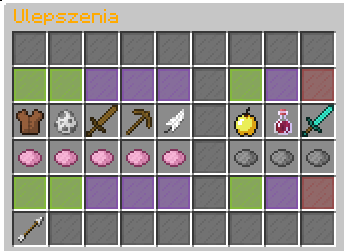
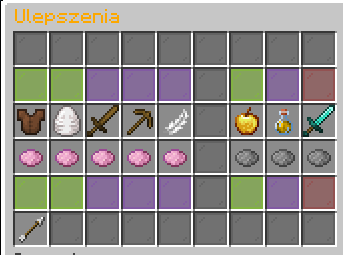
Zrobione HeadWarsy

diff --git a/minigames/headwars.md b/minigames/headwars.md
@@ -1,151 +1,216 @@
 # Head Wars
-Headwars to tryb gry w Minecraft, który polega na intensywnych walkach, w których celem jest zdobycie jak największej liczby głów przeciwników. To emocjonujący wariant rozgrywki, który łączy dynamiczne starcia z koniecznością strategicznego myślenia. W Headwars każda decyzja ma ogromne znaczenie, a gracze muszą być czujni przez cały czas, aby osiągnąć zwycięstwo. Mimo że rozgrywka może trwać długo, każda chwila przynosi nowe wyzwania, sprawiając, że rywalizacja jest niezwykle satysfakcjonująca.
-## Początek rozgrywki
-Na początku rozgrywki posiadasz 4 guziki które pomogą zdobyć żelazo dzięki któremu możesz kupić ulepszenia/generatory oraz itemy.
-![Przycisk startowy Head Wars](/assets/head-wars/Przycisk-HW.png)
+
+Headwars to tryb dostępny od [badge:1.8.9+:yellow], który skupia się na walkach i niszczeniem główek innych graczy.
+
+Głównym celem rozgrywki jest niszczenie głów przeciwników i jednoczesne eliminowanie innych graczy. 
+
+Ten tryb łączy szybkie, dynamiczne walki z potrzebą taktycznego rozwijania swojej główki.  
+
+## Jak zacząć?
+
+Na początku rozgrywki pojawiasz się na swojej główce, a na środku znajdują się 4 guziki, które generują żelazo. 
+
+Ten surowiec pozwala kupować początkowe ulepszenia, generatory i niezbędne przedmioty.
+
+Dzięki nim możesz szybko rozwijać swoją główkę i ekwipunek po to, żeby przygotować się do walki z innymi graczami.
+
+Otrzymujesz także drewnianą motykę, która pełni rolę narzędzia do ulepszania obudowy Twoich główek i generatorów.
+
 ## Generatory
-W trakcie rozgrywki gracz może zakupić trzy rodzaje generatorów: złota, żelaza i diamentów. Generatory szmaragdów nie są dostępne do zakupu, ale emeraldy można zdobyć, udając się na środek mapy. Tam znajdują się cztery generatory, które odradzają emeraldy co 45 sekund, przy czym na jednym generatorze może pojawić się maksymalnie jeden emerald.
 
-#### Uwaga! Generatory mają swój czas działania
+W trakcie rozgrywki możesz zakupić trzy rodzaje generatorów:
 
-| **Generator**                  | **Czas działania** |
-|--------------------------------|-------------------|
-| Generator żelaza (Poziom 1)    | 288 sekund        |
-| Generator żelaza (Poziom 2)    | 432 sekund        |
-| Generator żelaza (Poziom 3)    | 648 sekund        |
-| Generator złota (Poziom 1)     | 288 sekund        |
-| Generator złota (Poziom 1)     | 432 sekund        |
-| Generator złota (Poziom 1)     | 648 sekund        |
-| Generator diamentów (Poziom 1) | 768 sekund        |
-| Generator diamentów (Poziom 2) | 1152 sekund       |
-| Generator diamentów (Poziom 3) | 1080 sekund       |
+1. Złota. 
+2. Żelaza.
+3. Diamentów. 
 
-![Generatory](/assets/head-wars/generatory1.png)
-![Generatory_emeraldow](/assets/head-wars/generatory2.png)
+Są jeszcze generatory emeraldów, ale nie są dostępne do zakupu. Możesz je zdobyć, udając się na środek mapy.
+
+Na mapie znajdziesz cztery generatory, które co 45 sekund wytwarzają emeraldy. 
+
+Na każdym z nich może pojawić się tylko jeden emerald! Więc warto pilnować czasu i zbierać je regularnie przed innymi graczami. 
+
+> [!NOTE]
+> Na całej arence możesz postawić maksymalnie 40 generatorów.
+
+## Czas działania generatorów
+
+Na HeadWars musisz pamiętać, że generatory żelaza, złota i diamentów działają według określonego czasu generowania surowców.
+
+Jeżeli minie czas działania generatora, to zostaje on zniszczony, a wszystkie surowce, które wygenerował, pozostają na ziemi, które możesz zebrać i zakupić nowy!
+
+| Generator                      | Czas działania |
+|--------------------------------|----------------|
+| Generator Żelaza (Poziom 1)    | 288 sekund     |
+| Generator Żelaza (Poziom 2)    | 432 sekund     |
+| Generator Żelaza (Poziom 3)    | 648 sekund     |
+| Generator Złota (Poziom 1)     | 288 sekund     |
+| Generator Złota (Poziom 1)     | 432 sekund     |
+| Generator Złota (Poziom 1)     | 648 sekund     |
+| Generator Diamentów (Poziom 1) | 768 sekund     |
+| Generator Diamentów (Poziom 2) | 1152 sekund    |
+| Generator Diamentów (Poziom 3) | 1080 sekund    |
+
 ### Ulepszator
-Ulepszator jest to drewniana motyka, która pojawia się na 9 slocie, dzięki której możesz ulepszyć posiadane generatory (kliknąć ppm w stronę generatora) za niewielką opłatą, która jest zależna od rodzaju generatora i jego poziomu.
 
-| **Poziom Generatora**    | **Koszt Ulepszenia żelaznego** | **Koszt Ulepszenia Złotego** | **Koszt Ulepszenia Diamnetowego** |
-|--------------------------|--------------------------------|------------------------------|-----------------------------------|
-| 1 > 2                    | 16x żelaza                     | 12x złota                    | 12x Diamentów                     |
-| 2 > 3                    | 8x złota                       | 4x Diamentów                 | 3x Emeraldów                      |
+Ulepszator jest to drewniana motyka, która pojawia się na 9 slocie, dzięki której możesz ulepszyć posiadane generatory.
 
-#### Uwaga! Ulepszator ma również możliwość ulepszania blocków.
+Kliknąć prawym przyciskiem myszy (ppm) w stronę generatora lub bloku wełny za niewielką opłatą, która jest zależna od rodzaju generatora oraz bloku.
 
-| **Blok**  | **Cena**      |
-|-----------|---------------|
-| Glina     | 8x żelazo     |
-| End stone | 12x złota     |
-| Obsydian  | 12x diamentów |
+| Poziom Generatora    | Koszt Ulepszenia Żelaznego | Koszt Ulepszenia Złotego | Koszt Ulepszenia Diamnetowego |
+|-----------------------|--------------------------|-------------------------|-------------------------------|
+| 1 > 2                 | 16 Żelaza                | 12 Złota                | 6 Diamentów                   |
+| 2 > 3                 | 8 Złota                  | 4 Diamenty              | 4 Emeraldy                    |
+
+| Blok      | Cena           |
+|-----------|----------------|
+| Glina     | 8 Żelaza       |
+| End stone | 12 Złota       |
+| Obsydian  | 12 Diamentów   |
+
 ## Sklep
-W sklepie u villagera gracze mogą zakupić różnorodne przedmioty, bloki oraz ulepszenia, które pomogą im w zdobyciu przewagi nad przeciwnikami i wzmocnieniu swojej pozycji w grze.
 
-| **Rodzaj bloku/itemu** | **Cena**     |
-|------------------------|--------------|
-| Wełna                  | 6 żelaza     |
-| Kamienny miecz         | 16 żelaza    |
-| Żelazny miecz          | 16 złota     |
-| Diamentowy miecz       | 16 diamentów |
-| Skórzana klata         | 48 żelaza    |
-| Kolczugowa klata       | 64 złota     | 
-| Żelazna klata          | 64 Diamenów  |
-| Diamentowa klata       | 12 Emeraldów |
-| Skórzane spodnie       | 48 żelaza    |
-| Kolczugowe sponie      | 64 złota     | 
-| Żelazne spodnie        | 64 Diamenów  |
-| Diamentowe spodnie     | 6 Emeraldów  |
-| Skórzane buty          | 48 żelaza    |
-| Kolczugowe buty        | 64 złota     | 
-| Żelazne buty           | 64 Diamenów  |
-| Diamentowe buty        | 6 Szmaragdów |
-| Łuk                    | 12 złota     |
-| Strzały                | 8 diamentów  |
-| Wiadro                 | 10 złota     |
-| TNT                    | 16 złota     |
-| Skrzynia               | 32 żelaza    |
-| Kula ognia             | 8 diamentów  |
-| Nożyce                 | 32 żelaza    |
-| Kilof drewniany        | 10 żelaza    |
-| Kilof żelazny          | 10 złota     |
-| Kilof Diamentowy       | 10 diamentów |
+U villagera możesz zakupić różnorodne przedmioty, bloki oraz ulepszenia, które pomogą Tobie w zdobyciu przewagi nad przeciwnikami i wzmocnieniu swojej pozycji w grze.
 
-![sklep](/assets/head-wars/sklep.png)
+![sklep.png](/assets/head-wars/sklep.png)
 
-| **Ulepszenia**       | **Cena**      |
-|----------------------|---------------|
-| Ochrona 1            | 8 Diamentów   |
-| Ochrona 2            | 4 Szmaragdy   |
-| Ochrona 3            | 8 Szmaragdów  |
-| Ochrona 4            | 12 Szmaragdów |
-| +5 Limit generatorów | 8 Diamentów   |
-| +5 Limit generatorów | 16 Diamentów  |
-| +5 Limit generatorów | 4 Szmaragdy   |
-| Ostrość 1            | 4 Szmaragdy   |
-| Ostrość 2            | 8 Szmaragdy   |
-| Szybkie Kopanie      | 8 Diamentów   |
-| Szybkie Kopanie 2    | 16 Diamentów  |
-| Powolne Opadanie     | 8 Diamentów   |
-| Powolne Opadanie 2   | 2 Diamenty    |
-| Efekt życia          | 10 Szmaragdów |
-| Efekt Siły           | 10 Szmaragdów |
-| Zaklęty ogień        | 10 Szmaragdów |
+| Itemy                            | Cena        |
+|----------------------------------|-------------|
+| Jajko                            | 2 Emeraldy  |
+| Pajęczyna                        | 10 Złota    |
+| Złote Jabłko                     | 10 Złota    |
+| Wędka                            | 5 Diamentów |
+| Drabina 5x                       | 12 Żelaza   |
+| Generator Żelaza                 | 6 Żelaza    | 
+| Wełna                            | 6 Żelaza    |
+| Kamienny Miecz                   | 16 Żelaza   |
+| Skurzana Klata, Spodnie i Buty   | 64 Żelaza   |
+| Kolczugowa Klata, Spodnie i Buty | 64 złota    | 
+| Żelazna Klata, Spodnie i Buty    | 64 Diamenów |
+| Diamentowa Klata, Spodnie i Buty | 12 Emeraldów |
+| Łuk                              | 12 Złota    |
+| Łuk Z Moc 1                      | 24 Złota    |
+| Łuk Z Moc 2                      | 6 Emeraldów |
+| Wiadro Wody                      | 10 Złota    | 
+| Generator Złota                  | 24 Żelaza   |
+| Drewniany Kilof                  | 10 Żelaza   |
+| Żelazny Kilof                    | 10 Złota    |
+| Diamentowy Kilof                 | 10 Diamentów |
+| Żelazny Miecz                    | 16 Złota    |
+| Strzału 8x                       | 8 Diamentów |
+| TNT                              | 16 Złota    |
+| Generator Diamentów              | 12 Złota    |
+| Nożyce                           | 32 Żelaza   |
+| Diamentowy Miecz                 | 16 Diamentów |
+| Skrzynia                         | 32 Żelaza   |
+| Kula Ognia                       | 8 Diamentów |
 
-![ulepszenia](/assets/head-wars/ulepszenia.png)
+> [!TIP]
+> Jeżeli zakupisz np. żelazny kilof i zginiesz, po śmierci jego poziom spadnie do drewnianego kilofa, a jak będziesz posiadał diamentowy, to spadnie na żelazny.
 
-### Działanie itemków (np. bridge egg)
-- **Jajko** - Rzucony przedmiot buduje automatyczny most, ułatwiając szybkie przemieszczanie się po mapie. Dodatkowo pajęczyna, która pojawia się w jego trakcie, utrudnia grę przeciwnikom, ponieważ mogą się w nią zaplątać, co spowalnia ich ruchy i daje przewagę strategiczną.
-- **Złote jabłko** - Przyznaje nam dodatkowe dwa serduszka.
-- **Wędka** - Pomaga nam zepchnąć naszych przeciwników do otchłani
-- **Kula ognia** - Która pomaga nam zrzucić przeciwników, jest świetnym narzędziem do eliminowania rywali i zyskania przewagi na arenie.
+Jeśli chcesz przejść do GUI ulepszeń, kliknij netherową gwiazdę, którą znajdziesz po prawej stronie.
+
+![ulepszenia.png](/assets/head-wars/ulepszenia.png)
+
+| **Ulepszenia**                                                                        |
+|---------------------------------------------------------------------------------------|
+| ![ochrona1.png](/assets/head-wars/ochrona1.png)                                       |
+| ![ochrona2.png](/assets/head-wars/ochrona2.png)                                       | 
+| ![ochrona3.png](/assets/head-wars/ochrona3.png)                                       | 
+| ![ochrona4.png](/assets/head-wars/ochrona4.png)                                       |
+| ![zwiekszony _limit_za_diax1.png](/assets/head-wars/zwiekszony%20_limit_za_diax1.png) |
+| ![zwiekszony _limit_za_diax.png](/assets/head-wars/zwiekszony%20_limit_za_diax.png)   |
+| ![ostrosc1.png](/assets/head-wars/ostrosc1.png)                                       |
+| ![ostrosc2.png](/assets/head-wars/ostrosc2.png)                                       |
+| ![szybkie_kopanie1.png](/assets/head-wars/szybkie_kopanie1.png)                       |
+| ![szybkie_kopanie2.png](/assets/head-wars/szybkie_kopanie2.png)                       |
+| ![powolne_opadanie1.png](/assets/head-wars/powolne_opadanie1.png)                     |
+| ![powolne_opadanie2.png](/assets/head-wars/powolne_opadanie2.png)                     |
+| ![efekt_zycia.png](../assets/head-wars/efekt_zycia.png)                               |
+| ![efekt_sily.png](../assets/head-wars/efekt_sily.png)                                 |
+| ![zaklety_ogien.png](../assets/head-wars/zaklety_ogien.png)                           |
+
+> [!TIP]
+> Efekty życia, siły oraz zaklętego ognia możesz zakupić dopiero wtedy, gdy posiadasz wszystkie pozostałe ulepszenia.
+> Efekt Siły daje 27 minut stałej siły. Efekt Życia dodaje 2 dodatkowe serca, które zachowujesz nawet po śmierci. Zaklęty Ogień działa na każdym zakupionym mieczu i jest efektem stałym.
 
 ## Wydarzenia w grze
-Na trybie jest kilka rodzajów wydarzeń.
 
-| **Wydarzenie**           | **Minuta w której odbywa się wydarzenie** |
-|--------------------------|-------------------------------------------|
-| +5 do limitu generatorów | 5 Minuta                                  |
-| Emerald 2                | 8 Minuta                                  |
-| +5 do limitu generatorów | 10 Minuta                                 |
-| +5 do limitu generatorów | 15 Minuta                                 |
-| Utrata główki            | 20 Minuta                                 |
-| Utrata główki            | 30 Minuta                                 |
-| Utrata główki            | 35 Minuta                                 |
-| Utrata główki            | 40 Minuta                                 |
+Podczas rozgrywki będą się pojawiały wydarzenia:
 
-#### Uwaga! Most zaczyna się budować po 10 minutach rozgrywki.
+| Wydarzenie               | Czas wydarzenia                       |
+|--------------------------|---------------------------------------|
+| +5 do limitu generatorów | 5 Minut                               |
+| Emerald 2                | 3 Minut                               |
+| +5 do limitu generatorów | 5 Minut (+Budowa automatyczneg mostu) |
+| +5 do limitu generatorów | 5 Minut                               |
+| Utrata główki            | 10 Minut                              |
+| Utrata główki            | 5 Minut                               |
+| Utrata główki            | 5 Minut                               |
+| Utrata główki            | 5 Minut                               |
+| Utrata głównej główki    | 4 Minuty i 30 sekund                  |
 
-## Co się dzieje po zniszczeniu główki?
-Po udanym zniszczeniu główki zostajesz wyrzucony w powietrze dostając efekt Mining Fatigue na 10 sekund i otrzymując przy tym główkę, która pozwala ci na pozyskanie jednego z poniższych efektów.
+> [!NOTE]
+> Jeżeli nie posiadasz już główek i dalej grasz, to masz 4 minuty i 30 sekund na zbieranie itemów, ponieważ po tym czasie Twoja główna główka zostaje zniszczona.
 
-| **Efekty po zniszczeniu główki** |
-|----------------------------------|
-| Regeneracja (20 sekund)          |
-| Siła (15 sekund)                 |
-| Niewidzialność (20 sekund)       |
-| Szybkość (45 sekund)             |
-| Wysoki skok IV (45 sekund)       |
-| Absorbcja                        |
+## Co się stanie po zniszczeniu główki?
 
-![Efekty](/assets/head-wars/efekty.png)
+Po zniszczeniu główki przeciwnika zostaniesz wybity w góre o 60 kratek.
 
-#### Uwaga! Glówke można zniszczyć poprzez rozwalenie jej przeciwnikowi.
+Są dwa sposoby, żebyś nie zginął od upadku:
 
-## Często zadawane pytania przez graczy.
-- Do czego jest motyka?
+1. Postawienie cobweba pod sobą (jeśli staniesz zbyt blisko główki, ten sposób nie zadziała, ponieważ go usunie).
+2. Postawienie wody przed upadkiem.
 
-Odp. Motyka jest to ulepszator dzięki któremu można ulepszyć generatory/bloki.
-- Czemu nie mogę postawić generatora ?
+Po zniszczeniu główki otrzymasz Magiczną Główkę, gdzie możesz wybrać jeden efekt.
 
-Odp. Mógł zostać przekroczony limit generatorów możliwych do posiadania na wyspie.
-- Po jakim czasie mogę wyjść z bazy ?
+![efekty.png](/assets/head-wars/efekty.png)
 
-Odp. Wyjście z bazy jest możliwe od razu po rozpoczęciu rozgrywki.
-- Ile trwa gra?
+| Efekt          | Czas      |
+|----------------|-----------|
+| Regeneracja 1  | 20 sekund |
+| Siła 1         | 15 sekund |
+| Niewidzialność | 20 sekund |
+| Wysokość 4     | 20 sekund |
+| Absorpcja 2    | 2 minuty  |
 
-Odp. Czas gry jest zależny jak szybko gracze się wyliminują z areny.
-- Gdzie mogę kupić sobie efekt zniszczenia główki?
+## StatTrack
 
-Odp. Efekt jest jedynie możliwy do zdobycie po przez użycie główki przeciwinika.
-- Ile trwa spawn protection?
+Pozwala Tobie na liczenie statystyk takich jak:
 
-Odp. Spawn protection trwa 5 sekund od momentu odrodzenia się, nie uwzględnia on problemów z internetem bądź problemów sprzętowych
+1. Zniszczone Główki
+2. Final Kille
+
+Owe statystyki będą wyświetlać się na czacie!
+
+Koszt zakupu wynosi 1000 KoksCoinów.
+
+> [!TIP]
+> Stattrack można aktywować oraz dezaktywować w zależności od potrzeb. Posiada dwa różne tryby wyświetlania statystyk ogólnych oraz z obecnego sezonu.
+> Aby włączyć/wyłączyć wyświetlanie na lobby BedWars po lewej stronie znajdziesz NPC'ta odpowiedzialnego za tę funkcje.
+
+## Ulepszenia za Coiny
+
+Na lobby HeadWars w slocie 7 znajduje się żelazny miecz. 
+
+Po kliknięciu otwiera się GUI, w którym masz dostęp do kategorii dostępnych ulepszeń:
+
+![wybor_kategorii_ulepszen.png](/assets/head-wars/wybor_kategorii_ulepszen.png)
+
+| Rodzaj                                              | Poziom i cena                                 | Co robi?                                      |
+|-----------------------------------------------------|-----------------------------------------------|-----------------------------------------------|
+|                                                     | 1 poizom (-5%) 5 tysięcy coinów               |                                               |
+| ![walka.png](/assets/head-wars/walka.png)           | 2 poziom (-10%) 15 tysięcy coinów             | Redukuje Twojego knocka o x%                  |
+|                                                     | 3 poziom (-15%) 30 tysięcy coinów             |                                               |
+|                                                     |                                               |                                               |
+|                                                     | 1 poziom (-2%) 5 tysięcy                      |                                               |
+| ![obrona.png](/assets/head-wars/obrona.png)         | 2 poziom (-4%) 15 tysięcy coinów              | Zmniejsza Twoje obrażenia o x%                |
+|                                                     | 3 poziom (-6%) 30 tysięcy coinów              |                                               |
+|                                                     |                                               |                                               |
+|                                                     | 1 poziom szybkość 1 (+0.01) 30 tysięcy coinów |                                               |
+| ![uzytkowe.png](/assets/head-wars/uzytkowe.png)     | 2 poziom szybkość 2 (+0.01) 30 tysięcy coinów | Dodaje prędkość chodzenia                     |
+|                                                     | 3 poziom szybkość 3(+0.01) 30 tysięcy coinów  |                                               |
+|                                                     |                                               |                                               |
+|                                                     | 1 poziom (-2%) 5 tysięcy                      |                                               |
+| ![generatory.png](/assets/head-wars/generatory.png) | 2 poziom (-4%) 15 tysięcy coinów              | Dodaje x% szczęścia na podwójny drop surowców |
+|                                                     | 3 poziom (-6%) 30 tysięcy coinów              |                                               |

diff --git a/server/eventy.md b/server/eventy.md
@@ -1,0 +1,32 @@
+# Eventy
+
+Na KoksCrafcie co jakiś czas pojawiają się specjalne, tematyczne eventy! 
+
+W ich trakcie możesz zdobywać unikalne, customowe przedmioty!
+
+## Jak działa dany event?
+
+Podczas trwania danego eventu to graj na trybach minigames lub spędzaj czas na serwerze i zbieraj eventową walutę, a potem wykorzystasz ją do otwierania skrzynek z nagrodami.
+
+## Waluta za questy
+
+Wykonuj dzienne, tygodniowe i miesięczne questy u NPC'tów na trybie, na którym aktualnie będziesz. 
+
+Dzięki nim zdobędziesz eventową walutę i szybciej uzbierasz na skrzynki z nagrodami.
+
+- Dzienny quest: 80-120 waluty eventowej
+- Tygodniowy quest: 250-350 waluty eventowej
+- Miesięczny quest: 900-1200 waluty eventowej
+
+> [!TIP]
+> Dzięki zadaniom szybciej odblokujesz customowe itemy i zyskasz dodatkowy cel do grania.
+
+## Jak sprawdzić stan eventowej waluty?
+
+Jeśli chcesz sprawdzić, ile masz eventowej waluty, zajrzyj do ogłoszeń na naszym Discordzie ([ogłoszenia](https://discord.com/channels/773691439598141502/921111120977211412)).
+
+## Co można zrobić z eventową walutą?
+
+Możesz użyć komendy podanej w ogłoszeniach, żeby sprawdzić możliwość zakupu eventowej skrzynki. 
+
+Alternatywnie możesz też kliknąć specjalnego NPC na głównym lobby KoksCrafta i tam otworzyć sklep ze skrzynkami.
